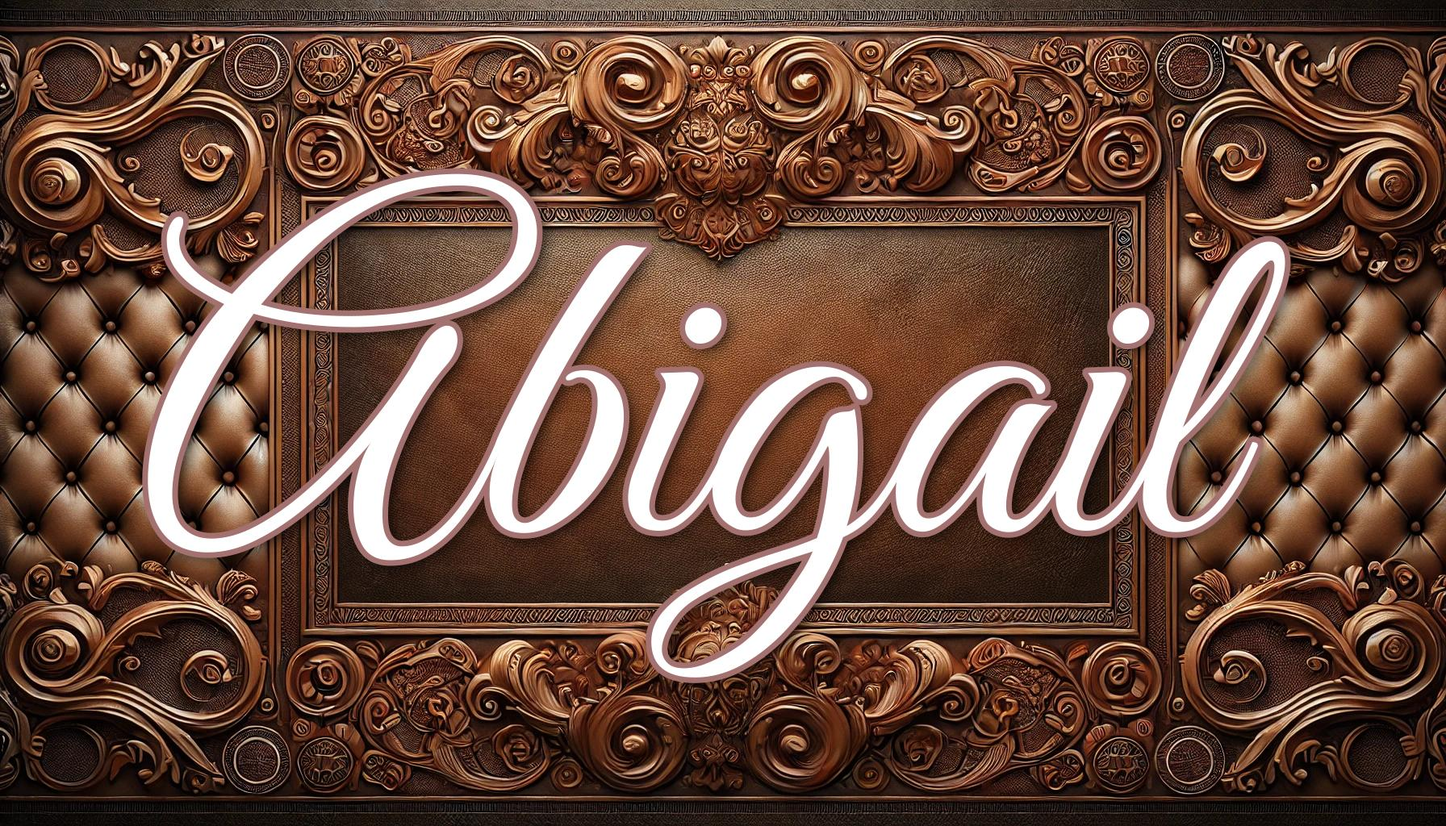
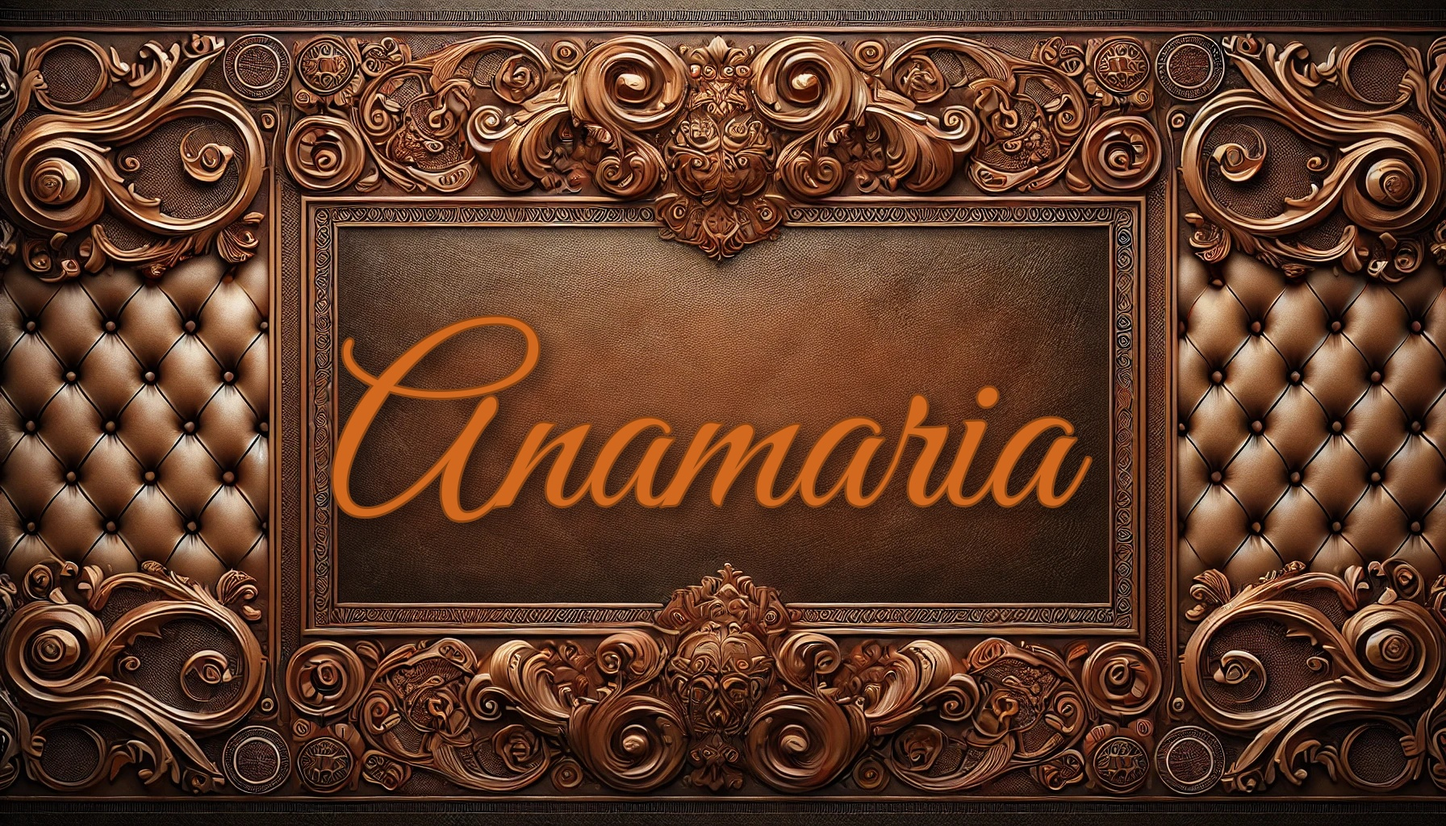
Шрифт4

Changed region(s): [[0.0938, 0.1875, 0.9062, 0.8438]]

diff --git a/app.py b/app.py
@@ -2,7 +2,6 @@ from flask import Flask, request, send_file
 import requests
 from PIL import Image, ImageDraw, ImageFont, ImageFilter
 import io
-import numpy as np
 
 app = Flask(__name__)
 
@@ -14,7 +13,7 @@ def overlay_text():
     # Загрузка изображения по URL
     if image_url:
         response = requests.get(image_url)
-        image = Image.open(io.BytesIO(response.content))
+        image = Image.open(io.BytysIO(response.content))
     else:
         file = request.files['image']
         image = Image.open(file)
@@ -24,13 +23,12 @@ def overlay_text():
     # Получаем размеры изображения
     W, H = image.size
 
-    # Определяем размеры и позицию внутренней рамки (примерно 60% от общего размера)
-    frame_margin_x = W * 0.2  # 20% отступ слева и справа
-    frame_margin_y = H * 0.15  # 15% отступ сверху и снизу
+    # Определяем размеры и позицию внутренней рамки
+    frame_margin_x = W * 0.2
+    frame_margin_y = H * 0.15
     frame_width = W - (2 * frame_margin_x)
     frame_height = H - (2 * frame_margin_y)
 
-    # Функция для подбора оптимального размера шрифта с учетом рамки
     def get_optimal_font_size(text, max_width, max_height):
         font_size = 10
         font = None
@@ -45,7 +43,6 @@ def overlay_text():
                 
             text_width, text_height = draw.textsize(text, font=font)
             
-            # Используем 90% от размера рамки для текста
             if text_width > max_width * 0.9 or text_height > max_height * 0.9:
                 font_size -= 10
                 try:
@@ -58,52 +55,52 @@ def overlay_text():
             
         return font, text_width, text_height
 
-    # Получаем оптимальный размер шрифта для рамки
+    # Получаем оптимальный размер шрифта
     font, text_width, text_height = get_optimal_font_size(text, frame_width, frame_height)
 
-    # Цвета в стиле изображения
-    stroke_color = "#8B4513"  # Темно-коричневый
-    text_color = "#D2691E"    # Светло-коричневый
-    shadow_color = "#2F1810"  # Очень темный коричневый
+    # Новые цвета и эффекты
+    main_color = "#FFD700"      # Золотой цвет для основного текста
+    stroke_color = "#8B4513"    # Темно-коричневый для обводки
+    glow_color = "#FFA500"      # Оранжевый для внутреннего свечения
+    shadow_color = "#000000"    # Черный для тени
 
-    def draw_text_with_blurred_shadow(draw, text, position, font, shadow_offset, shadow_color, text_color, stroke_width, stroke_fill):
+    def draw_text_with_effects(draw, text, position, font):
         x, y = position
+        
+        # Создаем несколько слоев свечения
+        for offset in range(15, 0, -3):
+            glow_layer = Image.new('RGBA', image.size, (0, 0, 0, 0))
+            glow_draw = ImageDraw.Draw(glow_layer)
+            glow_draw.text((x, y), text, font=font, fill=glow_color)
+            glow_blur = glow_layer.filter(ImageFilter.GaussianBlur(offset))
+            image.paste(glow_blur, (0, 0), glow_blur)
 
-        # Создаем слой для тени
+        # Слой для тени
         shadow_layer = Image.new('RGBA', image.size, (0, 0, 0, 0))
         shadow_draw = ImageDraw.Draw(shadow_layer)
+        shadow_draw.text((x + 5, y + 5), text, font=font, fill=shadow_color)
+        shadow_blur = shadow_layer.filter(ImageFilter.GaussianBlur(10))
+        image.paste(shadow_blur, (0, 0), shadow_blur)
 
-        # Рисуем тень с смещением
-        shadow_draw.text((x + shadow_offset, y + shadow_offset), text, font=font, fill=shadow_color)
+        # Рисуем обводку
+        for offset in [(1,1), (-1,-1), (-1,1), (1,-1)]:
+            draw.text((x + offset[0], y + offset[1]), text, font=font, fill=stroke_color)
 
-        # Размытие слоя с тенью
-        blurred_shadow = shadow_layer.filter(ImageFilter.GaussianBlur(12))  # Увеличенное размытие
+        # Рисуем основной текст с дополнительной обводкой
+        draw.text((x, y), text, font=font, fill=main_color, stroke_width=2, stroke_fill=stroke_color)
 
-        # Наложение тени на основное изображение
-        image.paste(blurred_shadow, (0, 0), blurred_shadow)
-
-        # Рисуем основной текст поверх размытой тени
-        draw.text(position, text, font=font, fill=text_color, stroke_width=stroke_width, stroke_fill=stroke_fill)
-
-    # Вычисляем позицию для центрирования текста в рамке
+    # Вычисляем позицию для центрирования текста
     text_position = (
         frame_margin_x + (frame_width - text_width) / 2,
         frame_margin_y + (frame_height - text_height) / 2
     )
 
-    # Рисуем текст с тенью
-    draw_text_with_blurred_shadow(
-        draw, text, text_position, font,
-        shadow_offset=8,        # Увеличенное смещение тени
-        shadow_color=shadow_color,
-        text_color=text_color,
-        stroke_width=3,         # Уменьшенная толщина обводки
-        stroke_fill=stroke_color
-    )
+    # Применяем все эффекты
+    draw_text_with_effects(draw, text, text_position, font)
 
-    # Сохранение результата во временный файл
+    # Сохранение результата
     img_io = io.BytesIO()
-    image.save(img_io, 'JPEG', quality=95)  # Увеличенное качество
+    image.save(img_io, 'JPEG', quality=95)
     img_io.seek(0)
 
     return send_file(img_io, mimetype='image/jpeg')
